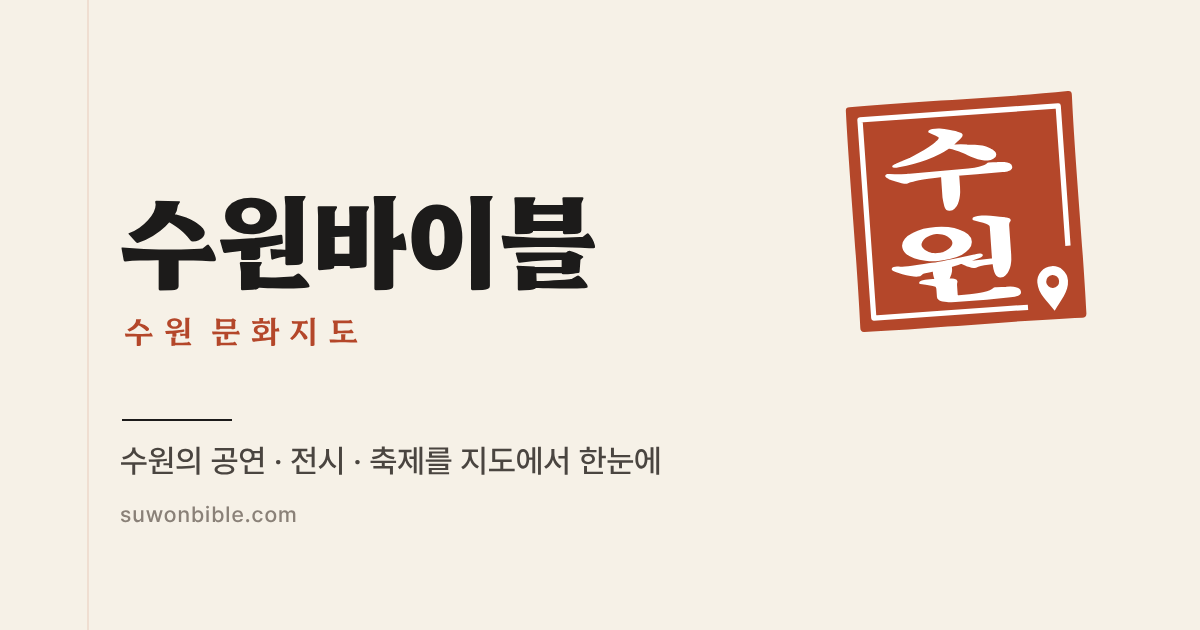
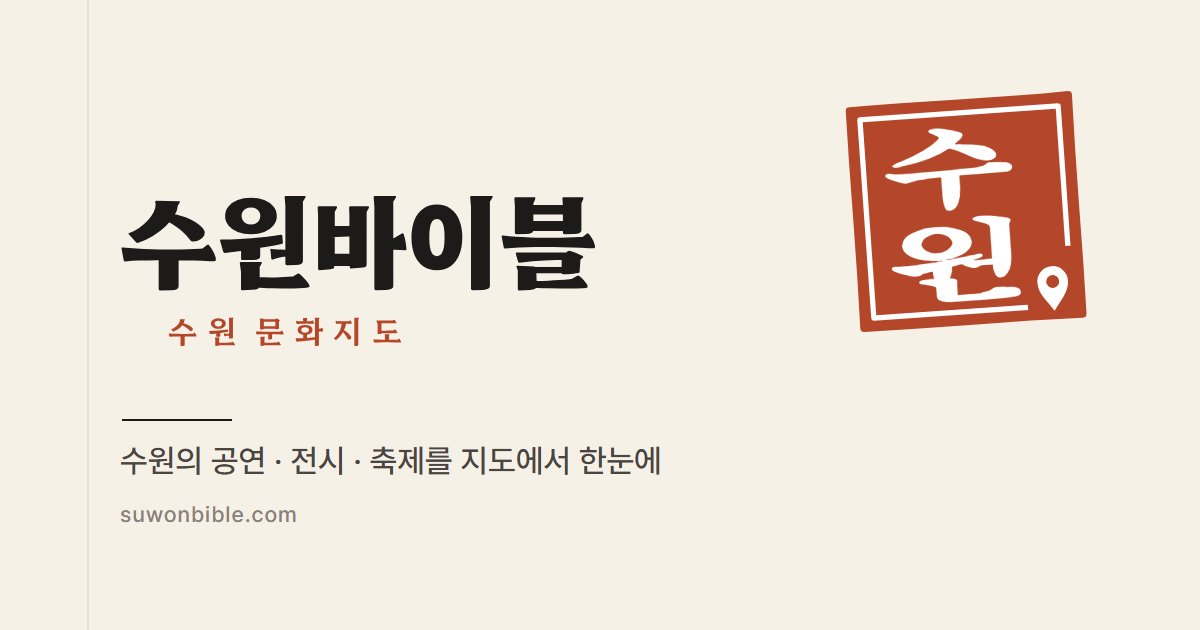
fix: 로고 lockup · 공유 이미지 부제를 '수' 중심에 맞춤
- make_brand.py: 부제 첫 글자 윤곽 왼쪽 끝 = 워드마크 '수' 윤곽 가로 중심(높이 × 0.515)을 글꼴 윤곽으로 계산
- 화면용 logo.svg#tagline 은 그대로(화면은 #216 CSS margin-left) → logo.svg 바이트 변화 없음
- logo-lockup.svg · og-image.png 다시 만듦 (1200×630 그대로), 아이콘 · favicon 은 내용 변화 없어 그대로
- 전/후 비교: docs/design/brand/lockup-subtitle-before-after.png · og-image-before-after.png

diff --git a/scripts/brand/make_brand.py b/scripts/brand/make_brand.py
@@ -163,12 +163,18 @@ def main():
     name_ds, name_w, name_top, name_bot = text_paths(ham800, "수원바이블", 100, tracking=-0.02, baseline=100)
     sub_size = 30
     sub_ds, sub_w, sub_top, sub_bot = text_paths(ham600, "수원 문화지도", sub_size, tracking=0.32, baseline=0)
-    # 부제는 워드마크 왼쪽 끝에 맞추고, 워드마크 아래 26 띄움
-    sub_y = name_bot + 26 - sub_top
-    sub_ds, sub_w, sub_top2, sub_bot2 = text_paths(ham600, "수원 문화지도", sub_size, tracking=0.32, baseline=sub_y, x=4)
+    sub_y = name_bot + 26 - sub_top  # 워드마크 아래 26 띄움
+    # 화면용 #tagline 심볼은 펜 시작 x=4 그대로 (화면 위치는 CSS margin-left 로 맞춤, #216)
+    tag_ds, tag_w, tag_top, tag_bot = text_paths(ham600, "수원 문화지도", sub_size, tracking=0.32, baseline=sub_y, x=4)
+    # 문서 · 공유 이미지: 부제 첫 글자 윤곽 왼쪽 끝 = 워드마크 첫 글자 '수' 윤곽의 가로 중심 (11/11 시안 d)
+    (su_x0, _, su_x1, _), _ = glyph_bounds(ham800, "수")
+    su_center = (su_x0 + su_x1) / 2 * 100 / ham800["head"].unitsPerEm
+    sub_ink0 = glyph_bounds(ham600, "수")[0][0] * sub_size / ham600["head"].unitsPerEm
+    sub_x = su_center - sub_ink0
+    sub_ds, sub_end, sub_top2, sub_bot2 = text_paths(ham600, "수원 문화지도", sub_size, tracking=0.32, baseline=sub_y, x=sub_x)
     top = name_top
-    vb_w, vb_h = max(name_w, sub_w + 4), sub_bot2 - top
-    name_d, sub_d = "".join(name_ds), "".join(sub_ds)
+    vb_w, vb_h = max(name_w, sub_end), sub_bot2 - top
+    name_d, sub_d, tag_d = "".join(name_ds), "".join(sub_ds), "".join(tag_ds)
 
     WORK.mkdir(exist_ok=True)
     # 화면용 스프라이트: <svg><use href="/brand/logo.svg#…"/></svg> 로 씀. 색은 CSS(currentColor) 로
@@ -178,7 +184,7 @@ def main():
         f'<symbol id="seal" viewBox="0 0 100 100">{seal_inner(song)}</symbol>'
         f'<symbol id="seal-sm" viewBox="0 0 100 100">{seal_sm(song)}</symbol>'  # 화면 로고(32~48px)는 작은 도장
         f'<symbol id="wordmark" viewBox="0 {fmt(top)} {fmt(name_w)} {fmt(name_bot - top)}"><path fill="currentColor" d="{name_d}"/></symbol>'
-        f'<symbol id="tagline" viewBox="4 {fmt(sub_top2)} {fmt(sub_w)} {fmt(sub_bot2 - sub_top2)}"><path fill="currentColor" d="{sub_d}"/></symbol>'
+        f'<symbol id="tagline" viewBox="4 {fmt(tag_top)} {fmt(tag_w)} {fmt(tag_bot - tag_top)}"><path fill="currentColor" d="{tag_d}"/></symbol>'
         "</svg>\n"
     )
     (BRAND / "logo.svg").write_text(sprite, encoding="utf-8")
@@ -216,6 +222,7 @@ def main():
 """
     (WORK / "og.html").write_text(og, encoding="utf-8")
     print("wordmark ratio", vb_w / vb_h, "sprite bytes", len(sprite))
+    print(f"'수' 중심 x {su_center:.2f} (= 워드마크 높이 × {su_center / (name_bot - top):.3f}), 부제 첫 글자 왼쪽 x {sub_x + sub_ink0:.2f}")
 
 
 if __name__ == "__main__":

diff --git a/scripts/brand/README.md b/scripts/brand/README.md
@@ -21,6 +21,9 @@
 | `apple-touch-icon.png` (180) · `icon-192.png` · `icon-512.png` | 벽돌색 꽉 찬 바탕 + 가운데 도장 (maskable 안전 영역 안) |
 | `og-image.png` (1200×630) | 종이 바탕 · 왼쪽 글 덩어리 · 오른쪽 기울인 도장 |
 
+부제 위치(11/11 시안 d): `logo-lockup.svg` · `og-image.png` 는 부제 첫 글자 윤곽의 왼쪽 끝을 워드마크 첫 글자 '수' 윤곽의 가로 중심(워드마크 높이 × 0.515)에 맞춤 — 스크립트가 글꼴 윤곽으로 계산하고 실행 끝에 두 값을 찍음.
+화면용 `logo.svg#tagline` 은 그대로 두고 화면에서 CSS `margin-left`(워드마크 높이 × 0.5)로 맞춤 (#216).
+
 ## 다시 만들기
 
 ```bash
@@ -33,3 +36,6 @@ python3 scripts/brand/make_brand.py SongMyung-Regular.ttf Hahmlet.ttf   # SVG + 
 node scripts/brand/render.js                                             # PNG (playwright)
 python3 scripts/brand/make_ico.py                                        # favicon.ico
 ```
+
+- Windows 에서 `render.js` 가 `browserType.launch: spawn UNKNOWN` 으로 멈추면(11/12 작업 PC, playwright 내장 크로미움 실행 실패) `chromium.launch({ channel: "chrome" })` 처럼 설치된 크롬으로 찍는다.
+- 다시 찍으면 그리는 엔진 차이로 내용이 같은 PNG 도 바이트가 달라질 수 있음 → 내용이 바뀐 파일만 커밋.
